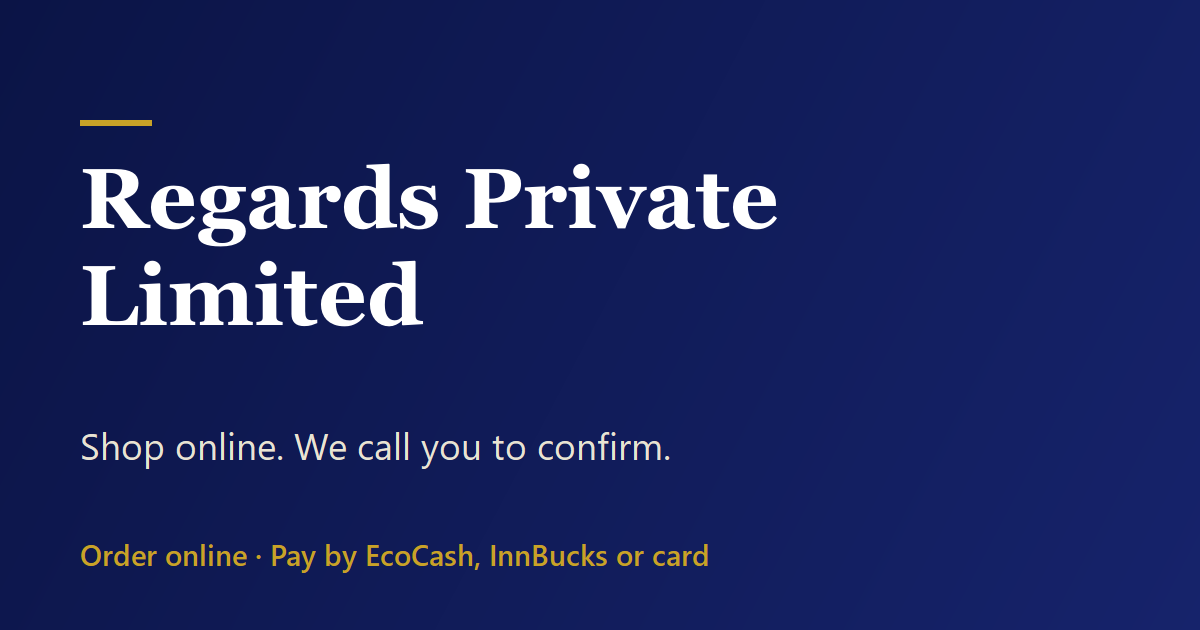
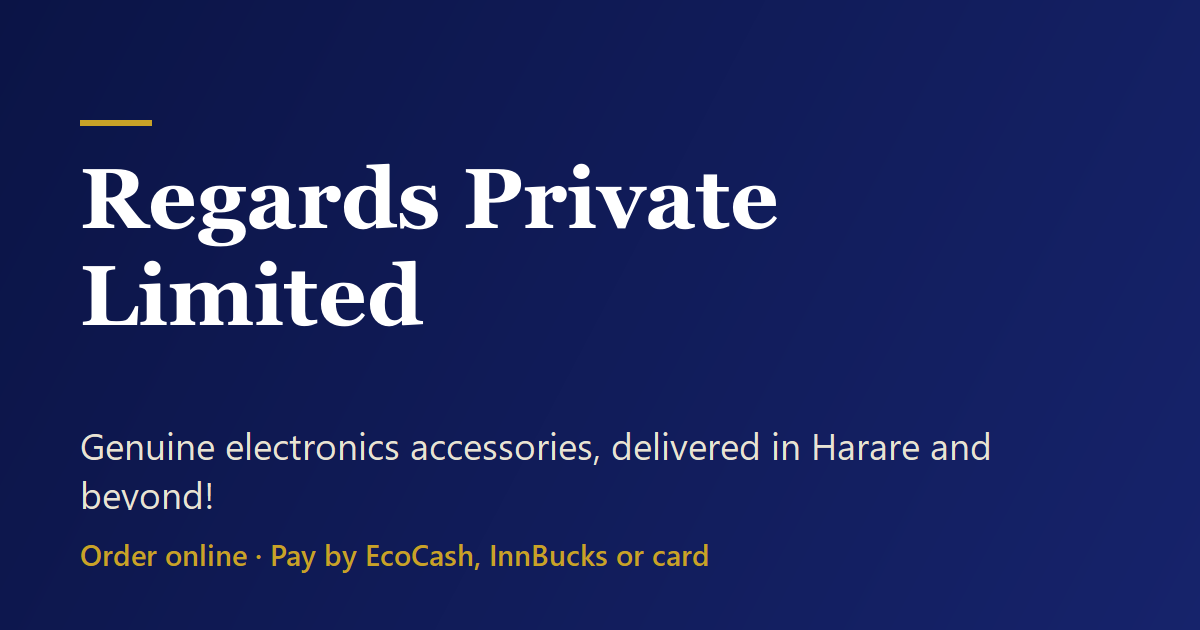
Share card with the shop's tagline

Changed region(s): [[0.0617, 0.6937, 0.8325, 0.8143]]

diff --git a/index.html b/index.html
@@ -4,13 +4,13 @@
   <meta charset="utf-8">
   <meta name="viewport" content="width=device-width, initial-scale=1, viewport-fit=cover">
   <title>Regards Private Limited · Order online</title>
-  <meta name="description" content="Order from Regards Private Limited online. We call to confirm, then you pay securely by EcoCash, InnBucks or card.">
+  <meta name="description" content="Genuine electronics accessories, delivered in Harare and beyond!">
   <meta name="theme-color" content="#0B1446">
 
   <!-- The card a link shows on WhatsApp, Facebook and Instagram. -->
   <meta property="og:type" content="website">
   <meta property="og:title" content="Regards Private Limited · Order online">
-  <meta property="og:description" content="Order from Regards Private Limited online. We call to confirm, then you pay securely by EcoCash, InnBucks or card.">
+  <meta property="og:description" content="Genuine electronics accessories, delivered in Harare and beyond!">
   <meta property="og:image" content="https://skiff1.github.io/shop/share.png">
   <meta property="og:url" content="https://skiff1.github.io/shop/">
   <meta name="twitter:card" content="summary_large_image">
@@ -37,7 +37,7 @@
     <section class="hero">
       <p class="eyebrow" id="branch-name">Order online</p>
       <h1 id="shop-name">Regards Private Limited</h1>
-      <p class="tagline" id="tagline"></p>
+      <p class="tagline" id="tagline">Genuine electronics accessories, delivered in Harare and beyond!</p>
       <ul class="promises">
         <li><span aria-hidden="true">✓</span> We call to confirm</li>
         <li><span aria-hidden="true">✓</span> Pay securely by EcoCash, InnBucks or card</li>
